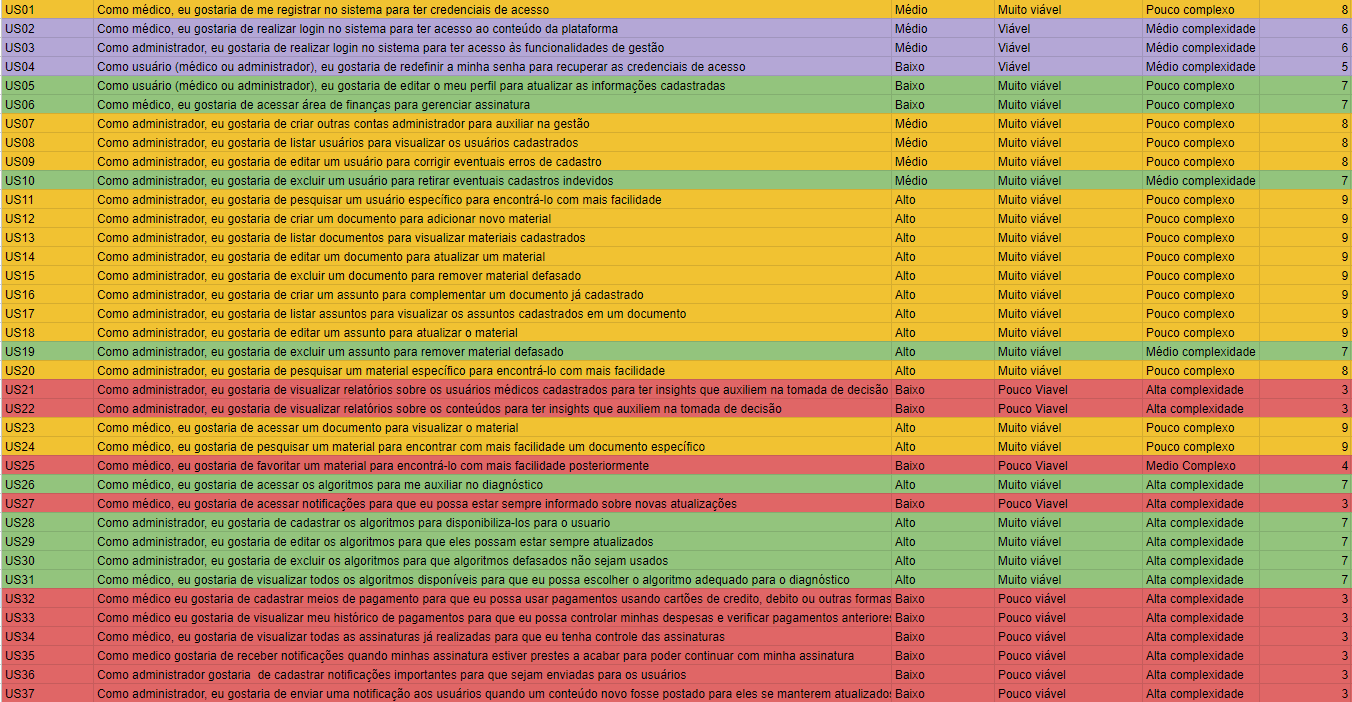
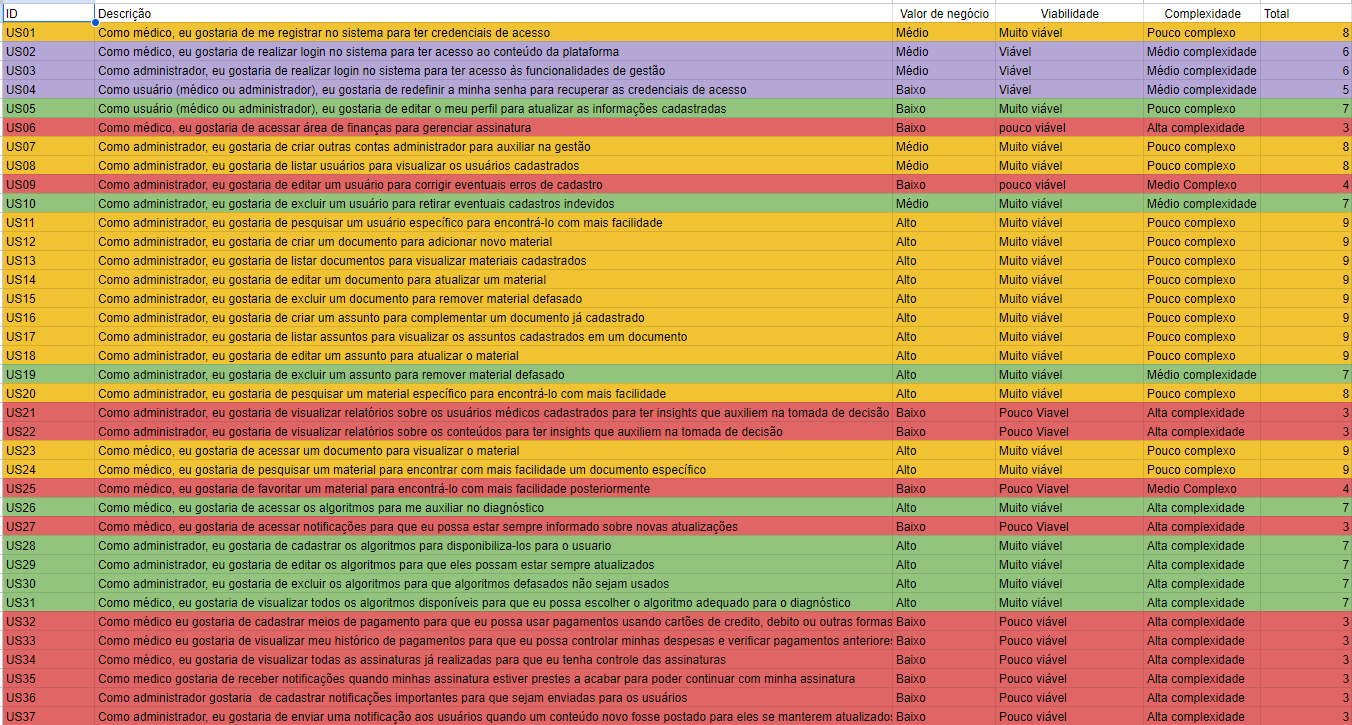
docs(mpv) : atualiza mvp

diff --git a/docs/mvp.md b/docs/mvp.md
@@ -9,22 +9,22 @@ Utilizamos o sistema de pontos para avaliar a complexidade, a viabilidade e o va
 
 <center>
 
-## MosCow
+## 2.1 MosCow
 
 ![MosCOw](./assets/imgs/MosCow.png)
 
-## Tabala de Pontos
+## 2.2 Tabala de Pontos
 ![Priorizacao](./assets/imgs/priorizacao.png)
 </center>
 
 
-## Miro Contendo a Priorização (Tabela de Pontos e MosCow)
+## 2.3 Miro Contendo a Priorização (Tabela de Pontos e MosCow)
 Abaixo se encontra o miro que pode ser visualizado clicando [aqui](https://miro.com/welcomeonboard/eW9PVXJFcVAwNlJDdUhwTUd4b2ZuNVk0QkxGNzFFaXFYSVZLMFhLeWxUQkNIMUF5ekttUFc1eEVkNWozZnZDZHwzMDc0NDU3MzYyOTQyNDYzNTMxfDI=?share_link_id=810399639819)
 
 
 <iframe width="768" height="432" src="https://miro.com/welcomeonboard/eW9PVXJFcVAwNlJDdUhwTUd4b2ZuNVk0QkxGNzFFaXFYSVZLMFhLeWxUQkNIMUF5ekttUFc1eEVkNWozZnZDZHwzMDc0NDU3MzYyOTQyNDYzNTMxfDI=?share_link_id=298669973303" frameborder="0" scrolling="no" allow="fullscreen; clipboard-read; clipboard-write" allowfullscreen></iframe>
 
-### Criterios utilizados para definir a priorização:
+### 2.4 Criterios utilizados para definir a priorização:
     - Nota >= 8 (Must Have)
     - Nota = 7  (Should Have)
     - Nota >= 5 e Nota <= 6 (Could Have) 
@@ -75,3 +75,4 @@ O MVP foi cuidadosamente planejado para incluir as funcionalidades essenciais qu
 | 31/07/2024 | `0.2`  | Adição dos tópicos USM e MVP                        | [Alexandre Beck](https://github.com/zzzBECK), [Leandro Almeida](https://github.com/leanars), [Lucas Antunes](https://github.com/LucasGSAntunes) e [Pedro Lucas](https://github.com/lucasdray) |
 | 02/09/2024 | `0.3`  | Adicionando MosCow e Tabela de Priorição por pontos | [Tales Rodrigues](https://github.com/TalesRG)|
 | 08/09/2024 | `0.4`  | Corrigindo MVP para seguir a estrutura do SAFe      | [Tales Rodrigues](https://github.com/TalesRG)|
+| 09/09/2024 | `0.5`  | Corrigindo Moscow e Tabela de Pontos                | [Tales Rodrigues](https://github.com/TalesRG)|
